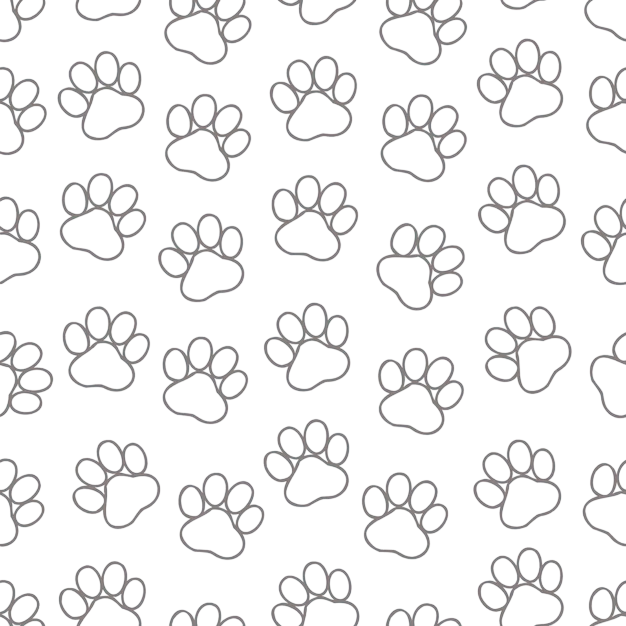
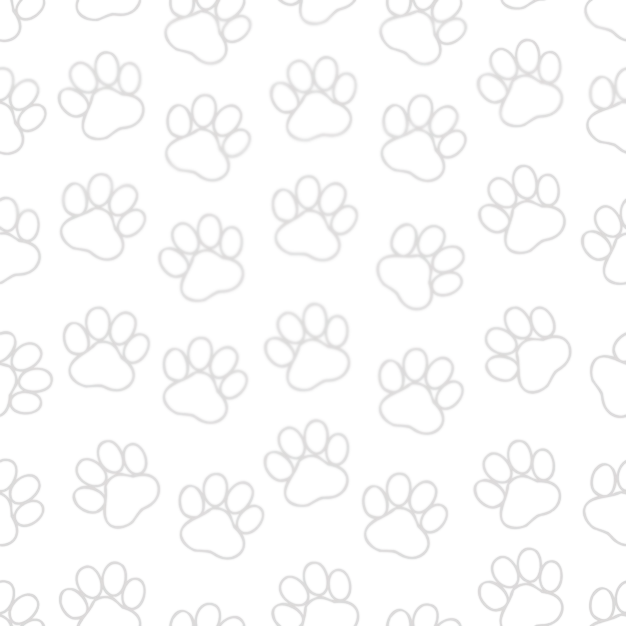
cor do fundo

diff --git a/Paginas/vacinas/vacinas.css b/Paginas/vacinas/vacinas.css
@@ -23,13 +23,14 @@ body {
 	color: var(--ink);
 	font-family: Georgia, "Times New Roman", Times, serif;
 	background-color: #efefef;
-	background-image: url("./imagens/image.png");
-	background-size: 260px 260px;
+	background-image: url("./imagens/fundoPatas.png");
+	background-size: 300px 300px;
 }
 
 .shell {
 	width: min(1100px, calc(100% - 48px));
 	margin: 0 auto;
+	max-width: 1000px;
 }
 
 .topbar {

diff --git a/Paginas/servicos/servicos.css b/Paginas/servicos/servicos.css
@@ -25,7 +25,7 @@ body {
 	background-color: #efefef;
 	background-image: url("../../Imagens/fundoPatas.png");
 	background-size: 300px 300px;
-	background-repeat: repeat;
+	
 }
 
 .shell {

diff --git a/Paginas/Main/Style.css b/Paginas/Main/Style.css
@@ -24,6 +24,7 @@ body {
 	background-color: #efefef;
 	background-image: url("./Imagens/fundoPatas.png");
 	background-size: 300, 300px;
+	background-repeat: repeat;
 }
 
 .shell {
